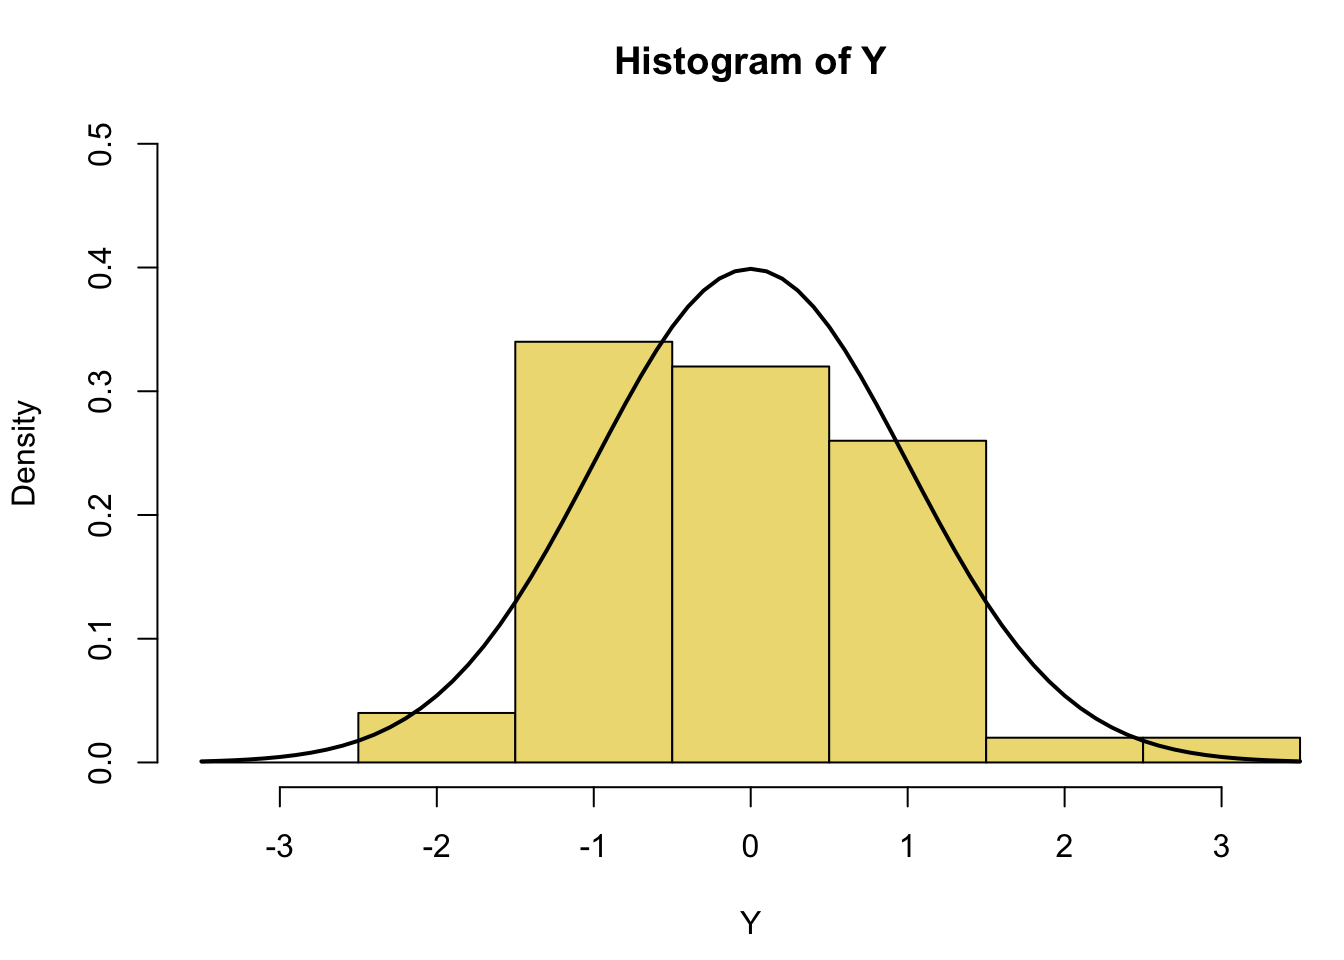
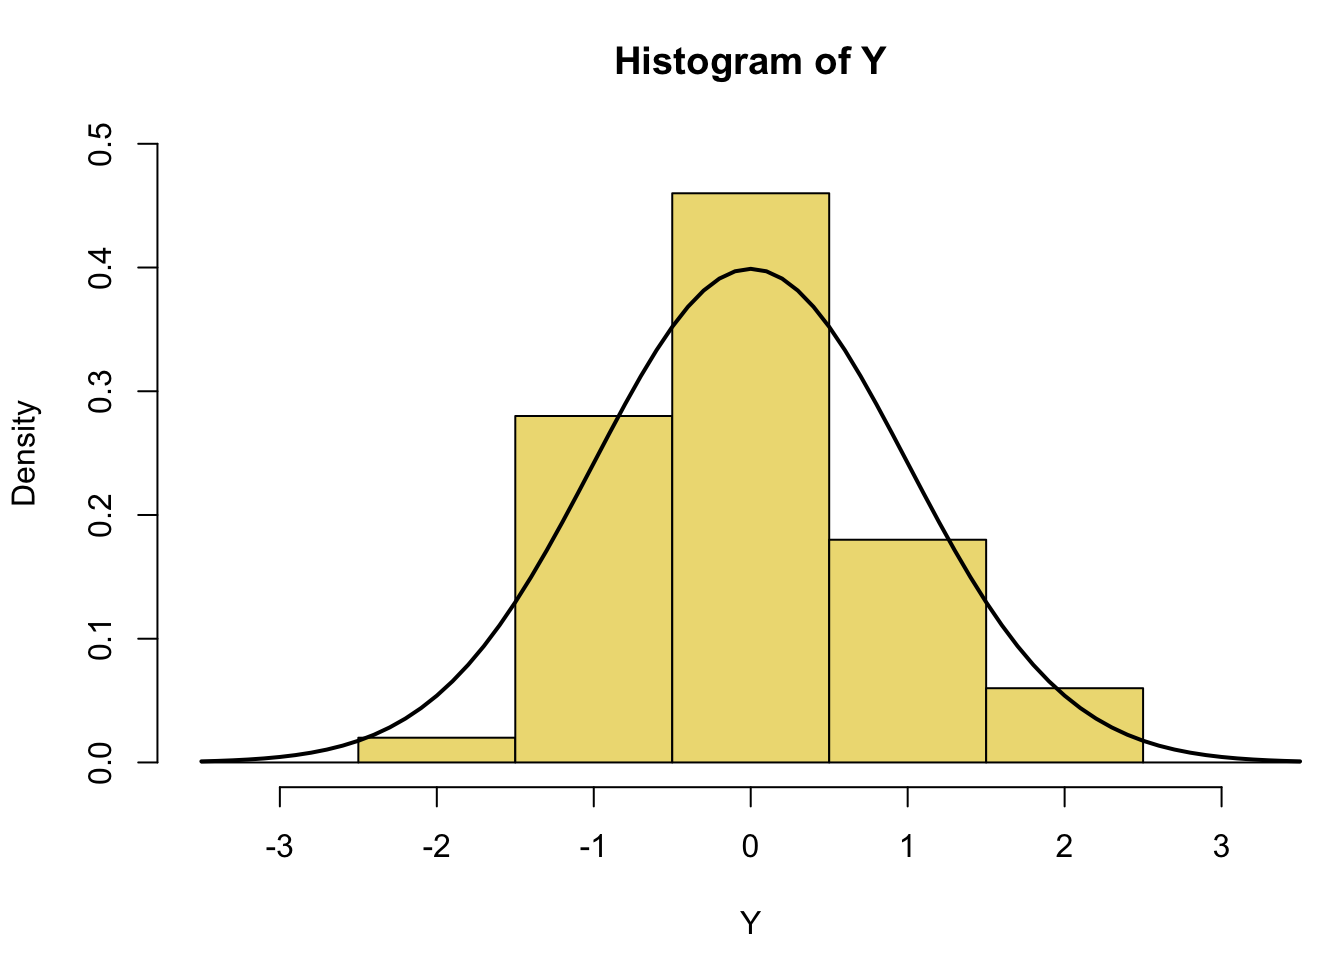
assignment02

diff --git a/assignment02.html b/assignment02.html
@@ -186,6 +186,8 @@ code span.wa { color: #60a0b0; font-weight: bold; font-style: italic; } /* Warni
    
   <ul>
   <li><a href="#paul-murrells-selected-r-examples" id="toc-paul-murrells-selected-r-examples" class="nav-link active" data-scroll-target="#paul-murrells-selected-r-examples">Paul Murrell’s selected R examples</a></li>
+  <li><a href="#exercises" id="toc-exercises" class="nav-link" data-scroll-target="#exercises">Exercises</a></li>
+  <li><a href="#section" id="toc-section" class="nav-link" data-scroll-target="#section"></a></li>
   </ul>
 </nav>
     </div>
@@ -332,8 +334,185 @@ code span.wa { color: #60a0b0; font-weight: bold; font-style: italic; } /* Warni
 <p><img src="assignment02_files/figure-html/unnamed-chunk-6-1.png" class="img-fluid" width="672"></p>
 </div>
 </div>
-<div class="sourceCode" id="cb11"><pre class="sourceCode r code-with-copy"><code class="sourceCode r"><span id="cb11-1"><a href="#cb11-1" aria-hidden="true" tabindex="-1"></a><span class="co"># Exercise: Can you generate these charts individually?  Try these functions </span></span>
-<span id="cb11-2"><a href="#cb11-2" aria-hidden="true" tabindex="-1"></a><span class="co"># using another dataset. Be sure to work on the layout and margins</span></span></code><button title="Copy to Clipboard" class="code-copy-button"><i class="bi"></i></button></pre></div>
+</section>
+</section>
+<section id="exercises" class="level3">
+<h3 class="anchored" data-anchor-id="exercises">Exercises</h3>
+<section id="read-happy-planet-data-happyplanetindex.org" class="level4">
+<h4 class="anchored" data-anchor-id="read-happy-planet-data-happyplanetindex.org">Read Happy Planet Data, <em>happyplanetindex.org</em></h4>
+<div class="cell">
+<div class="sourceCode cell-code" id="cb11"><pre class="sourceCode r code-with-copy"><code class="sourceCode r"><span id="cb11-1"><a href="#cb11-1" aria-hidden="true" tabindex="-1"></a><span class="fu">library</span>(tidyverse)</span></code><button title="Copy to Clipboard" class="code-copy-button"><i class="bi"></i></button></pre></div>
+<div class="cell-output cell-output-stderr">
+<pre><code>── Attaching packages ─────────────────────────────────────── tidyverse 1.3.2 ──
+✔ ggplot2 3.3.6      ✔ purrr   0.3.4 
+✔ tibble  3.1.8      ✔ dplyr   1.0.10
+✔ tidyr   1.2.1      ✔ stringr 1.4.1 
+✔ readr   2.1.2      ✔ forcats 0.5.2 
+── Conflicts ────────────────────────────────────────── tidyverse_conflicts() ──
+✖ dplyr::filter() masks stats::filter()
+✖ dplyr::lag()    masks stats::lag()</code></pre>
+</div>
+<div class="sourceCode cell-code" id="cb13"><pre class="sourceCode r code-with-copy"><code class="sourceCode r"><span id="cb13-1"><a href="#cb13-1" aria-hidden="true" tabindex="-1"></a><span class="fu">library</span>(readxl)</span>
+<span id="cb13-2"><a href="#cb13-2" aria-hidden="true" tabindex="-1"></a>path <span class="ot">&lt;-</span> <span class="st">"assignment02_happyPlanetData.xlsx"</span></span>
+<span id="cb13-3"><a href="#cb13-3" aria-hidden="true" tabindex="-1"></a>hpi <span class="ot">&lt;-</span> <span class="fu">read_xlsx</span>(path, <span class="at">sheet =</span> <span class="st">"1. All countries"</span>, <span class="at">range=</span><span class="st">"A9:L161"</span>)</span></code><button title="Copy to Clipboard" class="code-copy-button"><i class="bi"></i></button></pre></div>
+<div class="cell-output cell-output-stderr">
+<pre><code>New names:
+• `` -&gt; `...4`</code></pre>
+</div>
+<div class="sourceCode cell-code" id="cb15"><pre class="sourceCode r code-with-copy"><code class="sourceCode r"><span id="cb15-1"><a href="#cb15-1" aria-hidden="true" tabindex="-1"></a><span class="fu">summary</span>(hpi)</span></code><button title="Copy to Clipboard" class="code-copy-button"><i class="bi"></i></button></pre></div>
+<div class="cell-output cell-output-stdout">
+<pre><code>    HPI rank        Country              ISO                ...4          
+ Min.   :  1.00   Length:152         Length:152         Length:152        
+ 1st Qu.: 38.75   Class :character   Class :character   Class :character  
+ Median : 76.50   Mode  :character   Mode  :character   Mode  :character  
+ Mean   : 76.50                                                           
+ 3rd Qu.:114.25                                                           
+ Max.   :152.00                                                           
+   Continent     Population (thousands) Life Expectancy (years)
+ Min.   :1.000   Min.   :    299.9      Min.   :53.30          
+ 1st Qu.:3.000   1st Qu.:   4970.4      1st Qu.:67.25          
+ Median :5.000   Median :  11521.8      Median :74.65          
+ Mean   :4.717   Mean   :  49738.8      Mean   :73.06          
+ 3rd Qu.:7.000   3rd Qu.:  37530.2      3rd Qu.:78.62          
+ Max.   :8.000   Max.   :1433783.7      Max.   :84.90          
+ Ladder of life (Wellbeing) (0-10) Ecological Footprint (g ha)      HPI       
+ Min.   :2.375                     Min.   : 0.5157             Min.   :24.33  
+ 1st Qu.:4.819                     1st Qu.: 1.5019             1st Qu.:39.32  
+ Median :5.526                     Median : 2.5710             Median :44.70  
+ Mean   :5.532                     Mean   : 3.3252             Mean   :44.55  
+ 3rd Qu.:6.282                     3rd Qu.: 4.4461             3rd Qu.:50.87  
+ Max.   :7.780                     Max.   :15.0376             Max.   :62.06  
+ Biocapacity for year \r\n(g ha) GDP per capita ($)
+ Min.   :1.56                    Length:152        
+ 1st Qu.:1.56                    Class :character  
+ Median :1.56                    Mode  :character  
+ Mean   :1.56                                      
+ 3rd Qu.:1.56                                      
+ Max.   :1.56                                      </code></pre>
+</div>
+</div>
+</section>
+<section id="data-preprocessing-using-names" class="level4">
+<h4 class="anchored" data-anchor-id="data-preprocessing-using-names">Data Preprocessing using names()</h4>
+<div class="cell">
+<div class="sourceCode cell-code" id="cb17"><pre class="sourceCode r code-with-copy"><code class="sourceCode r"><span id="cb17-1"><a href="#cb17-1" aria-hidden="true" tabindex="-1"></a>hpi <span class="ot">&lt;-</span> <span class="fu">subset</span>(hpi, <span class="at">select=</span><span class="sc">-</span>...<span class="dv">4</span>) <span class="co"># drop ...4 column</span></span>
+<span id="cb17-2"><a href="#cb17-2" aria-hidden="true" tabindex="-1"></a><span class="fu">names</span>(hpi) <span class="ot">=</span> <span class="fu">c</span>(<span class="st">'rank'</span>, <span class="st">'country'</span>, <span class="st">'iso'</span>, <span class="st">'continent'</span>, <span class="st">'population'</span>, <span class="st">'life_exp'</span>, <span class="st">'wellbeing'</span>, <span class="st">'footprint'</span>, <span class="st">'hpi'</span>, <span class="st">'biocapacity'</span>, <span class="st">'gdp'</span>) <span class="co"># rename columns</span></span>
+<span id="cb17-3"><a href="#cb17-3" aria-hidden="true" tabindex="-1"></a><span class="fu">class</span>(hpi<span class="sc">$</span>gdp) <span class="ot">=</span> <span class="st">"double"</span> <span class="co"># set gdp from character to double</span></span></code><button title="Copy to Clipboard" class="code-copy-button"><i class="bi"></i></button></pre></div>
+<div class="cell-output cell-output-stderr">
+<pre><code>Warning in class(hpi$gdp) = "double": NAs introduced by coercion</code></pre>
+</div>
+</div>
+</section>
+<section id="par" class="level4">
+<h4 class="anchored" data-anchor-id="par">par()</h4>
+<div class="cell">
+<div class="sourceCode cell-code" id="cb19"><pre class="sourceCode r code-with-copy"><code class="sourceCode r"><span id="cb19-1"><a href="#cb19-1" aria-hidden="true" tabindex="-1"></a><span class="fu">par</span>(<span class="at">las=</span><span class="dv">1</span>, <span class="at">mar=</span><span class="fu">c</span>(<span class="dv">5</span>, <span class="dv">5</span>, <span class="dv">3</span>, <span class="dv">3</span>), <span class="at">cex=</span><span class="fl">1.0</span>) <span class="co"># labels alwayshorizontal, margins 5 for bottom/left, 3 for top/right, text size large at 1.0</span></span>
+<span id="cb19-2"><a href="#cb19-2" aria-hidden="true" tabindex="-1"></a><span class="fu">plot</span>(hpi<span class="sc">$</span>gdp, hpi<span class="sc">$</span>hpi, <span class="at">xlab=</span><span class="st">"GDP per capita ($)"</span>, <span class="at">ylab=</span><span class="st">"Happy Planet Index"</span>)</span></code><button title="Copy to Clipboard" class="code-copy-button"><i class="bi"></i></button></pre></div>
+<div class="cell-output-display">
+<p><img src="assignment02_files/figure-html/unnamed-chunk-9-1.png" class="img-fluid" width="672"></p>
+</div>
+</div>
+</section>
+<section id="lines-points-axis-box-text-and-mtext" class="level4">
+<h4 class="anchored" data-anchor-id="lines-points-axis-box-text-and-mtext">lines(), points(), axis(), box(), text(), and mtext()</h4>
+<div class="cell">
+<div class="sourceCode cell-code" id="cb20"><pre class="sourceCode r code-with-copy"><code class="sourceCode r"><span id="cb20-1"><a href="#cb20-1" aria-hidden="true" tabindex="-1"></a><span class="co"># set data to use</span></span>
+<span id="cb20-2"><a href="#cb20-2" aria-hidden="true" tabindex="-1"></a>y <span class="ot">&lt;-</span> hpi<span class="sc">$</span>gdp</span>
+<span id="cb20-3"><a href="#cb20-3" aria-hidden="true" tabindex="-1"></a>x <span class="ot">&lt;-</span> hpi<span class="sc">$</span>hpi</span>
+<span id="cb20-4"><a href="#cb20-4" aria-hidden="true" tabindex="-1"></a></span>
+<span id="cb20-5"><a href="#cb20-5" aria-hidden="true" tabindex="-1"></a><span class="fu">par</span>(<span class="at">las=</span><span class="dv">1</span>, <span class="at">mar=</span><span class="fu">c</span>(<span class="dv">5</span>, <span class="dv">5</span>, <span class="dv">3</span>, <span class="dv">1</span>) <span class="sc">+</span> <span class="fl">0.1</span>, <span class="at">cex=</span><span class="fl">0.75</span>) <span class="co"># set label orientation, margins, text size</span></span>
+<span id="cb20-6"><a href="#cb20-6" aria-hidden="true" tabindex="-1"></a><span class="fu">plot.new</span>()</span>
+<span id="cb20-7"><a href="#cb20-7" aria-hidden="true" tabindex="-1"></a><span class="fu">plot.window</span>(<span class="fu">range</span>(<span class="dv">20</span>, <span class="dv">65</span>), <span class="fu">range</span>(<span class="dv">750</span>, <span class="dv">115000</span>)) <span class="co"># create plot window with given limits for x and y</span></span>
+<span id="cb20-8"><a href="#cb20-8" aria-hidden="true" tabindex="-1"></a></span>
+<span id="cb20-9"><a href="#cb20-9" aria-hidden="true" tabindex="-1"></a><span class="fu">lines</span>(x, y) <span class="co"># create simple line plot</span></span>
+<span id="cb20-10"><a href="#cb20-10" aria-hidden="true" tabindex="-1"></a><span class="fu">points</span>(x, y, <span class="at">cex=</span>.<span class="dv">5</span>) <span class="co"># add points to line plot</span></span>
+<span id="cb20-11"><a href="#cb20-11" aria-hidden="true" tabindex="-1"></a></span>
+<span id="cb20-12"><a href="#cb20-12" aria-hidden="true" tabindex="-1"></a><span class="fu">box</span>(<span class="at">which=</span><span class="st">"plot"</span>) <span class="co"># create box around plot</span></span>
+<span id="cb20-13"><a href="#cb20-13" aria-hidden="true" tabindex="-1"></a><span class="fu">text</span>(<span class="at">x=</span><span class="dv">55</span>, <span class="at">y=</span><span class="dv">100000</span>, <span class="at">labels=</span><span class="fu">c</span>(<span class="st">"GDP per capita ($) vs. HPI"</span>)) <span class="co"># write text at coordinates(2,2)</span></span>
+<span id="cb20-14"><a href="#cb20-14" aria-hidden="true" tabindex="-1"></a><span class="fu">mtext</span>(<span class="st">"Example plot made by layering base attributes"</span>, <span class="at">side=</span><span class="dv">3</span>, <span class="at">line=</span><span class="dv">1</span>) <span class="co"># write caption at top of plot</span></span>
+<span id="cb20-15"><a href="#cb20-15" aria-hidden="true" tabindex="-1"></a></span>
+<span id="cb20-16"><a href="#cb20-16" aria-hidden="true" tabindex="-1"></a><span class="fu">axis</span>(<span class="dv">2</span>, <span class="at">at=</span><span class="fu">c</span>(<span class="dv">750</span>, <span class="dv">25000</span>, <span class="dv">50000</span>, <span class="dv">75000</span>, <span class="dv">100000</span>, <span class="dv">115000</span>)) <span class="co"># draw y axis</span></span>
+<span id="cb20-17"><a href="#cb20-17" aria-hidden="true" tabindex="-1"></a><span class="fu">axis</span>(<span class="dv">1</span>, <span class="at">at=</span><span class="fu">c</span>(<span class="fl">24.3</span>, <span class="dv">30</span>, <span class="dv">40</span>, <span class="dv">50</span>, <span class="fl">62.1</span>)) <span class="co"># dram x axis</span></span></code><button title="Copy to Clipboard" class="code-copy-button"><i class="bi"></i></button></pre></div>
+<div class="cell-output-display">
+<p><img src="assignment02_files/figure-html/unnamed-chunk-10-1.png" class="img-fluid" width="672"></p>
+</div>
+</div>
+</section>
+<section id="hist" class="level4">
+<h4 class="anchored" data-anchor-id="hist">hist()</h4>
+<div class="cell">
+<div class="sourceCode cell-code" id="cb21"><pre class="sourceCode r code-with-copy"><code class="sourceCode r"><span id="cb21-1"><a href="#cb21-1" aria-hidden="true" tabindex="-1"></a><span class="fu">hist</span>(x, <span class="at">col=</span><span class="st">"lightblue"</span>, <span class="at">border=</span><span class="st">"firebrick"</span>, <span class="at">xlab=</span><span class="st">"HPI"</span>, <span class="at">main=</span><span class="st">"Histogram of Happy Planet Index Scores"</span>) <span class="co"># create histogram, specifying bar fill and line color, x-axis label, and main label</span></span></code><button title="Copy to Clipboard" class="code-copy-button"><i class="bi"></i></button></pre></div>
+<div class="cell-output-display">
+<p><img src="assignment02_files/figure-html/unnamed-chunk-11-1.png" class="img-fluid" width="672"></p>
+</div>
+</div>
+</section>
+<section id="boxplot" class="level4">
+<h4 class="anchored" data-anchor-id="boxplot">boxplot()</h4>
+<div class="cell">
+<div class="sourceCode cell-code" id="cb22"><pre class="sourceCode r code-with-copy"><code class="sourceCode r"><span id="cb22-1"><a href="#cb22-1" aria-hidden="true" tabindex="-1"></a>y_boxplot <span class="ot">&lt;-</span> <span class="fu">head</span>(hpi<span class="sc">$</span>hpi[<span class="fu">order</span>(hpi<span class="sc">$</span>rank)], <span class="dv">5</span>)</span>
+<span id="cb22-2"><a href="#cb22-2" aria-hidden="true" tabindex="-1"></a>grp <span class="ot">&lt;-</span> <span class="fu">head</span>(hpi<span class="sc">$</span>country[<span class="fu">order</span>(hpi<span class="sc">$</span>rank)], <span class="dv">5</span>)</span>
+<span id="cb22-3"><a href="#cb22-3" aria-hidden="true" tabindex="-1"></a></span>
+<span id="cb22-4"><a href="#cb22-4" aria-hidden="true" tabindex="-1"></a><span class="fu">boxplot</span>(y_boxplot <span class="sc">~</span> grp, <span class="at">xlab=</span><span class="st">'Country'</span>, <span class="at">ylab=</span><span class="st">'HPI'</span>) <span class="co"># boxplot of top 5 countries in hpi based on HPI rank</span></span></code><button title="Copy to Clipboard" class="code-copy-button"><i class="bi"></i></button></pre></div>
+<div class="cell-output-display">
+<p><img src="assignment02_files/figure-html/unnamed-chunk-12-1.png" class="img-fluid" width="672"></p>
+</div>
+</div>
+</section>
+</section>
+<section id="section" class="level3">
+<h3 class="anchored" data-anchor-id="section"></h3>
+<section id="legend" class="level4">
+<h4 class="anchored" data-anchor-id="legend">legend()</h4>
+<div class="cell">
+<div class="sourceCode cell-code" id="cb23"><pre class="sourceCode r code-with-copy"><code class="sourceCode r"><span id="cb23-1"><a href="#cb23-1" aria-hidden="true" tabindex="-1"></a>y2 <span class="ot">&lt;-</span> hpi<span class="sc">$</span>population</span>
+<span id="cb23-2"><a href="#cb23-2" aria-hidden="true" tabindex="-1"></a><span class="fu">par</span>(<span class="at">las=</span><span class="dv">1</span>, <span class="at">mar=</span><span class="fu">c</span>(<span class="dv">5</span>, <span class="dv">5</span>, <span class="dv">4</span>, <span class="dv">1</span>) <span class="sc">+</span> <span class="fl">0.1</span>, <span class="at">cex=</span><span class="fl">0.75</span>) <span class="co"># set label orientation, margins, text size</span></span>
+<span id="cb23-3"><a href="#cb23-3" aria-hidden="true" tabindex="-1"></a><span class="fu">plot.new</span>()</span>
+<span id="cb23-4"><a href="#cb23-4" aria-hidden="true" tabindex="-1"></a><span class="fu">plot.window</span>(<span class="fu">range</span>(<span class="dv">20</span>, <span class="dv">65</span>), <span class="fu">range</span>(<span class="dv">750</span>, <span class="dv">1500000</span>)) <span class="co"># create plot window with given limits for x and </span></span>
+<span id="cb23-5"><a href="#cb23-5" aria-hidden="true" tabindex="-1"></a></span>
+<span id="cb23-6"><a href="#cb23-6" aria-hidden="true" tabindex="-1"></a><span class="co"># hpi vs. population</span></span>
+<span id="cb23-7"><a href="#cb23-7" aria-hidden="true" tabindex="-1"></a><span class="fu">lines</span>(x, y2, <span class="at">col=</span><span class="st">'darkorchid2'</span>)</span>
+<span id="cb23-8"><a href="#cb23-8" aria-hidden="true" tabindex="-1"></a><span class="fu">points</span>(x, y2, <span class="at">cex=</span><span class="dv">1</span>, <span class="at">col=</span><span class="st">'darkorchid2'</span>, <span class="at">lwd=</span><span class="dv">2</span>)</span>
+<span id="cb23-9"><a href="#cb23-9" aria-hidden="true" tabindex="-1"></a></span>
+<span id="cb23-10"><a href="#cb23-10" aria-hidden="true" tabindex="-1"></a><span class="co"># hpi vs. gdp</span></span>
+<span id="cb23-11"><a href="#cb23-11" aria-hidden="true" tabindex="-1"></a><span class="fu">lines</span>(x, y, <span class="at">col=</span><span class="st">"royalblue2"</span>) <span class="co"># create simple line plot</span></span>
+<span id="cb23-12"><a href="#cb23-12" aria-hidden="true" tabindex="-1"></a><span class="fu">points</span>(x, y, <span class="at">cex=</span><span class="dv">1</span>, <span class="at">col=</span><span class="st">'royalblue2'</span>, <span class="at">lwd=</span><span class="dv">2</span>) <span class="co"># add points to line plot</span></span>
+<span id="cb23-13"><a href="#cb23-13" aria-hidden="true" tabindex="-1"></a></span>
+<span id="cb23-14"><a href="#cb23-14" aria-hidden="true" tabindex="-1"></a><span class="fu">box</span>(<span class="at">which=</span><span class="st">"plot"</span>) <span class="co"># create box around plot</span></span>
+<span id="cb23-15"><a href="#cb23-15" aria-hidden="true" tabindex="-1"></a><span class="fu">mtext</span>(<span class="st">"Example plot with legend"</span>, <span class="at">side=</span><span class="dv">3</span>, <span class="at">line=</span><span class="dv">1</span>, <span class="at">cex=</span><span class="fl">1.5</span>) <span class="co"># write caption at top of plot</span></span>
+<span id="cb23-16"><a href="#cb23-16" aria-hidden="true" tabindex="-1"></a><span class="fu">mtext</span>(<span class="st">"HPI"</span>, <span class="at">side=</span><span class="dv">1</span>, <span class="at">line=</span><span class="dv">3</span>, <span class="at">cex=</span><span class="dv">1</span>) <span class="co"># write x-axis title</span></span>
+<span id="cb23-17"><a href="#cb23-17" aria-hidden="true" tabindex="-1"></a></span>
+<span id="cb23-18"><a href="#cb23-18" aria-hidden="true" tabindex="-1"></a><span class="fu">axis</span>(<span class="dv">2</span>, <span class="at">at=</span><span class="fu">c</span>(<span class="dv">750</span>, <span class="dv">250000</span>, <span class="dv">500000</span>, <span class="dv">750000</span>, <span class="dv">1000000</span>, <span class="dv">1250000</span>, <span class="dv">1500000</span>)) <span class="co"># draw y axis</span></span>
+<span id="cb23-19"><a href="#cb23-19" aria-hidden="true" tabindex="-1"></a><span class="fu">axis</span>(<span class="dv">1</span>, <span class="at">at=</span><span class="fu">c</span>(<span class="fl">24.3</span>, <span class="dv">30</span>, <span class="dv">40</span>, <span class="dv">50</span>, <span class="fl">62.1</span>)) <span class="co"># dram x axis</span></span>
+<span id="cb23-20"><a href="#cb23-20" aria-hidden="true" tabindex="-1"></a></span>
+<span id="cb23-21"><a href="#cb23-21" aria-hidden="true" tabindex="-1"></a><span class="co"># create legende</span></span>
+<span id="cb23-22"><a href="#cb23-22" aria-hidden="true" tabindex="-1"></a><span class="fu">legend</span>(<span class="at">x=</span><span class="dv">50</span>, <span class="at">y=</span><span class="dv">1250000</span>, <span class="fu">c</span>(<span class="st">"GDP per capita ($)"</span>, <span class="st">"Population"</span>), <span class="at">fill=</span><span class="fu">c</span>(<span class="st">"royalblue2"</span>, <span class="st">"darkorchid2"</span>))</span></code><button title="Copy to Clipboard" class="code-copy-button"><i class="bi"></i></button></pre></div>
+<div class="cell-output-display">
+<p><img src="assignment02_files/figure-html/unnamed-chunk-13-1.png" class="img-fluid" width="672"></p>
+</div>
+</div>
+</section>
+<section id="persp" class="level4">
+<h4 class="anchored" data-anchor-id="persp">persp()</h4>
+<div class="cell">
+<div class="sourceCode cell-code" id="cb24"><pre class="sourceCode r code-with-copy"><code class="sourceCode r"><span id="cb24-1"><a href="#cb24-1" aria-hidden="true" tabindex="-1"></a><span class="fu">par</span>(<span class="at">las=</span><span class="dv">1</span>, <span class="at">mar=</span><span class="fu">c</span>(<span class="dv">1</span>, <span class="dv">2</span>, <span class="dv">3</span>, <span class="dv">1</span>) <span class="sc">+</span> <span class="fl">0.1</span>, <span class="at">cex=</span><span class="dv">1</span>) <span class="co"># set label orientation, margins, text size</span></span>
+<span id="cb24-2"><a href="#cb24-2" aria-hidden="true" tabindex="-1"></a></span>
+<span id="cb24-3"><a href="#cb24-3" aria-hidden="true" tabindex="-1"></a>hpi_matrix <span class="ot">&lt;-</span><span class="fu">as.matrix</span>(<span class="fu">subset</span>(hpi, <span class="at">select=</span><span class="fu">c</span>(<span class="sc">-</span>country, <span class="sc">-</span>iso))) <span class="co"># take out character values and change from dataframe to matrix</span></span>
+<span id="cb24-4"><a href="#cb24-4" aria-hidden="true" tabindex="-1"></a><span class="fu">persp</span>(<span class="at">z=</span>hpi_matrix, <span class="at">zlab=</span><span class="st">"HPI"</span>, <span class="at">expand=</span><span class="fl">0.2</span>, <span class="at">main=</span><span class="st">"Perspective plot of HPI"</span>)</span></code><button title="Copy to Clipboard" class="code-copy-button"><i class="bi"></i></button></pre></div>
+<div class="cell-output-display">
+<p><img src="assignment02_files/figure-html/unnamed-chunk-14-1.png" class="img-fluid" width="672"></p>
+</div>
+</div>
+</section>
+<section id="pie" class="level4">
+<h4 class="anchored" data-anchor-id="pie">pie()</h4>
+<div class="cell">
+<div class="sourceCode cell-code" id="cb25"><pre class="sourceCode r code-with-copy"><code class="sourceCode r"><span id="cb25-1"><a href="#cb25-1" aria-hidden="true" tabindex="-1"></a><span class="fu">par</span>(<span class="at">las=</span><span class="dv">1</span>, <span class="at">mar=</span><span class="fu">c</span>(<span class="dv">1</span>, <span class="dv">1</span>, <span class="dv">2</span>, <span class="dv">1</span>) <span class="sc">+</span> <span class="fl">0.1</span>, <span class="at">cex=</span><span class="dv">1</span>) <span class="co"># set label orientation, margins, text size</span></span>
+<span id="cb25-2"><a href="#cb25-2" aria-hidden="true" tabindex="-1"></a><span class="fu">pie</span>(<span class="fu">head</span>(hpi<span class="sc">$</span>population), <span class="at">labels=</span><span class="fu">head</span>(hpi<span class="sc">$</span>country), <span class="at">main=</span><span class="st">"Population by Country"</span>) <span class="co"># create pit chart of first 6 country's populations, usning the country name column as labels</span></span></code><button title="Copy to Clipboard" class="code-copy-button"><i class="bi"></i></button></pre></div>
+<div class="cell-output-display">
+<p><img src="assignment02_files/figure-html/unnamed-chunk-15-1.png" class="img-fluid" width="672"></p>
+</div>
+</div>
 
 
 </section>

diff --git a/resources.html b/resources.html
@@ -166,6 +166,14 @@ ul.task-list li input[type="checkbox"] {
 <li><p><a href="https://archive.ics.uci.edu/ml/datasets.php">UCI Machine Learning Repository</a></p></li>
 <li><p><a href="https://github.com/Quartz/bad-data-guide">Quatrz Bad Data Guide</a></p></li>
 </ul>
+</section>
+<section id="data-visualization-course-websites" class="level4">
+<h4 class="anchored" data-anchor-id="data-visualization-course-websites">Data Visualization Course Websites</h4>
+<ul>
+<li><p><a href="datageneration.org/datavisualization">Data Generation</a></p></li>
+<li><p><a href="https://github.com/datageneration/datavisualization">Class GitHub</a></p></li>
+<li><p><a href="karlho.github.io">Dr.&nbsp;Ho’s Website</a></p></li>
+</ul>
 
 
 </section>
